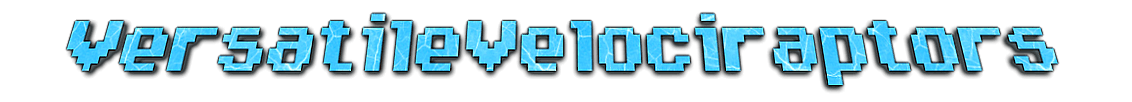
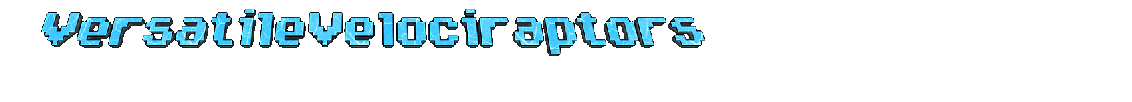
move text

diff --git a/src/io/github/versatilevelociraptors/libgdxtest/LibgdxTest.java b/src/io/github/versatilevelociraptors/libgdxtest/LibgdxTest.java
@@ -14,7 +14,7 @@ public class LibgdxTest implements ApplicationListener{
 	public static final String TITLE = "LibGDX-Test";
 	public static final int WIDTH = 640;
 	public static final int HEIGHT = 360;
-	public static final int SCALE = 2;
+	public static final double SCALE = 1.5;
 	
 	private SpriteBatch batch;
 	private Texture texture;
@@ -35,8 +35,8 @@ public class LibgdxTest implements ApplicationListener{
 		
 		//set window options
 		configuration.title = TITLE;
-		configuration.width = WIDTH * SCALE;
-		configuration.height = HEIGHT * SCALE;
+		configuration.width = getWidth();
+		configuration.height = getHeight();
 		
 		new LwjglApplication(new LibgdxTest() , configuration);
 	}
@@ -60,10 +60,18 @@ public class LibgdxTest implements ApplicationListener{
 		Gdx.gl.glClear(GL20.GL_COLOR_BUFFER_BIT);
 		Gdx.gl20.glClearColor(r, g, b, 1);
 		batch.begin();
-		batch.draw(texture , 0 , 0);
+		batch.draw(texture , Gdx.input.getX() , getHeight() - Gdx.input.getY()/*had to subtract from height to invert the y axis*/);
 		batch.end();
 		fps.log();
 		timer--;
+	}
+	
+	public static int getHeight(){
+		return (int)(HEIGHT*SCALE);
+	}
+
+	public static int getWidth(){
+		return (int)(WIDTH*SCALE);
 	}
 
 	@Override
